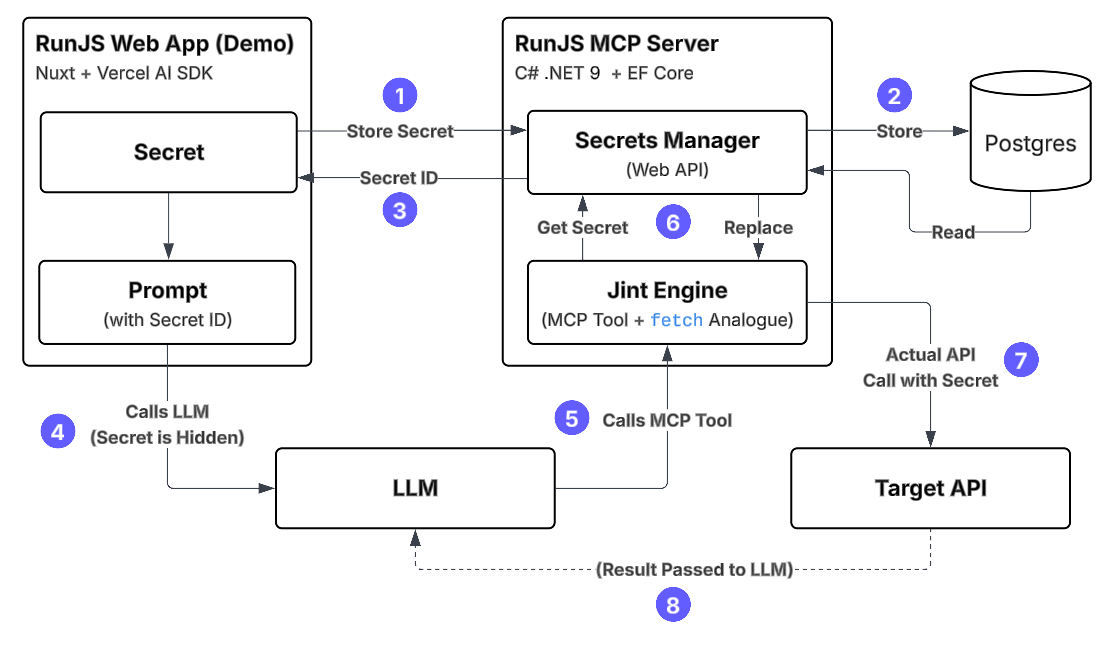
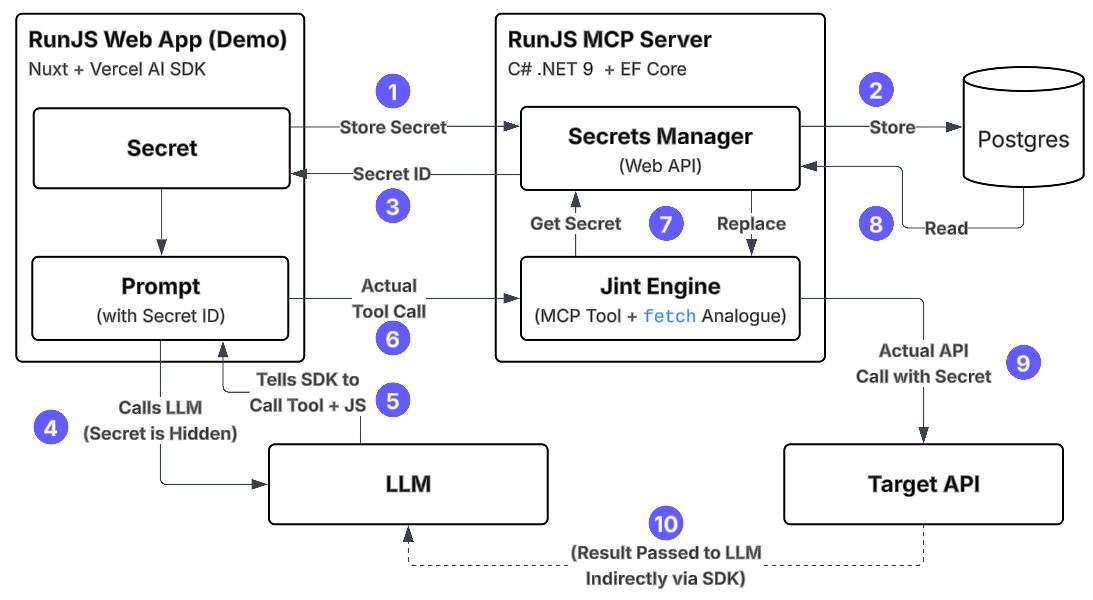
Updated diagram and arch notes

diff --git a/README.md b/README.md
@@ -67,10 +67,14 @@ The diagram above provides an overview of the architecture and flow.
 2. The secrets are encrypted and stored in a Postgres database
 3. A **secret ID** is returned to the caller; the caller stores this value instead.
 4. The prompt has instructions to execute JavaScript or make an API call; if any secrets are needed, they are referenced by the **secret ID**.
-5. The LLM generated JavaScript to make an API call or otherwise manipulate data and uses the **RunJS MCP server** to execute the JavaScript.
-6. The tool determines if it needs to retrieve a **secret value** and replace it with the **secret ID** in the generated code.
-7. The tool uses a `fetch` analogue (that is implemented using `System.Net.HttpClient`) to make HTTP requests now with the **secret value** injected!
-8. The result is returned from the tool to the LLM for further processing.
+5. The LLM generates JavaScript to make an API call or otherwise manipulate data and uses the **RunJS MCP server** to execute the JavaScript.  This is actually a tool call originating from the app (not from the LLM) which is why the `localhost` URLs work (and why this will work in your private network upstream).
+6. The SDK (e.g. Vercel AI SDK, Semantic Kernel) sends the call to the MCP server with the generated JavaScript and any secret IDs it extracted from the call.
+7. If a **secret ID** is provided, the server will exchange it for the actual value.
+8. The actual value is returned and handed to the tool implementation.
+9. The tool uses a `fetch` analogue (that is implemented using `System.Net.HttpClient`) to make HTTP requests now with the **secret value** injected!
+10. The result is returned from the tool to the LLM for further processing (it is actually indirect through the SDK (meaning it goes back to the Nuxt app in this case and is handed to the LLM as the response to the tool invocation)).
+
+It's convoluted if it's the first time you're working with MCP, but just keep in mind that all of this works locally and it should start to click which way and how the calls flow; the LLM will never see the actual secret.
 
 ## Project Setup
 
